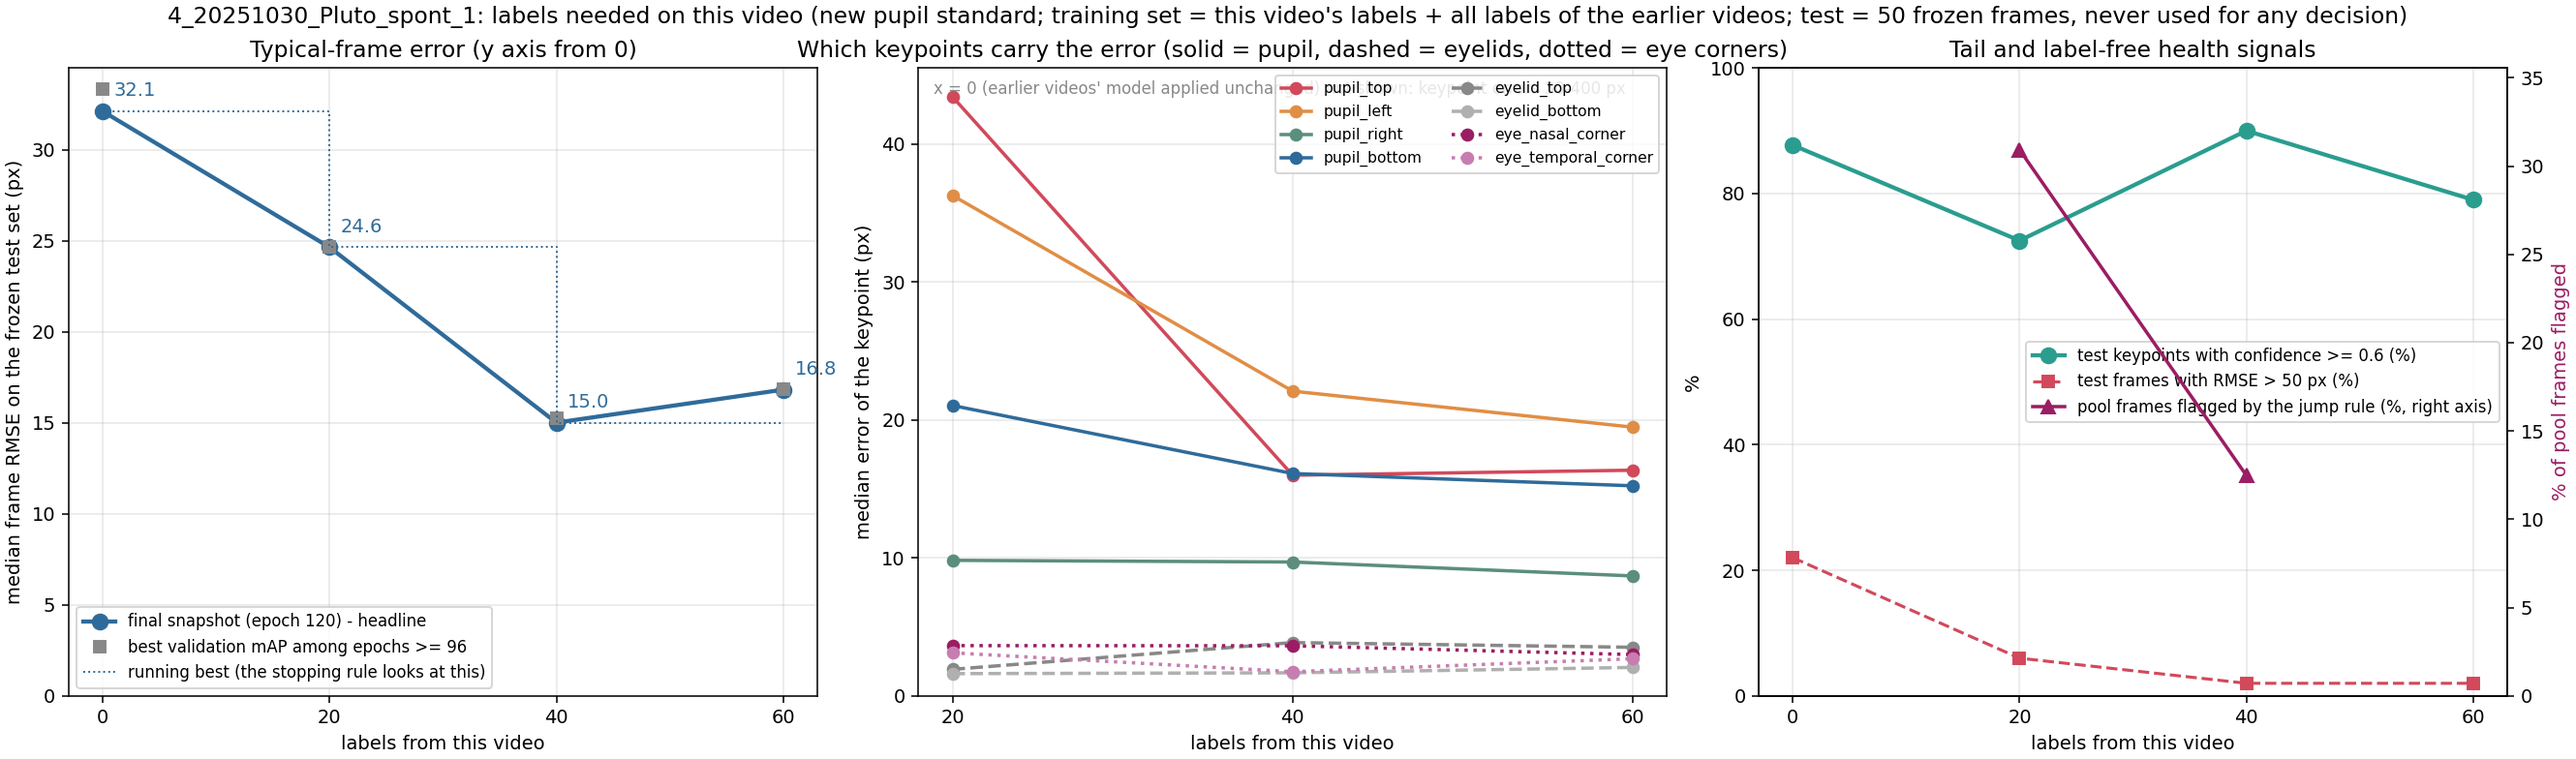
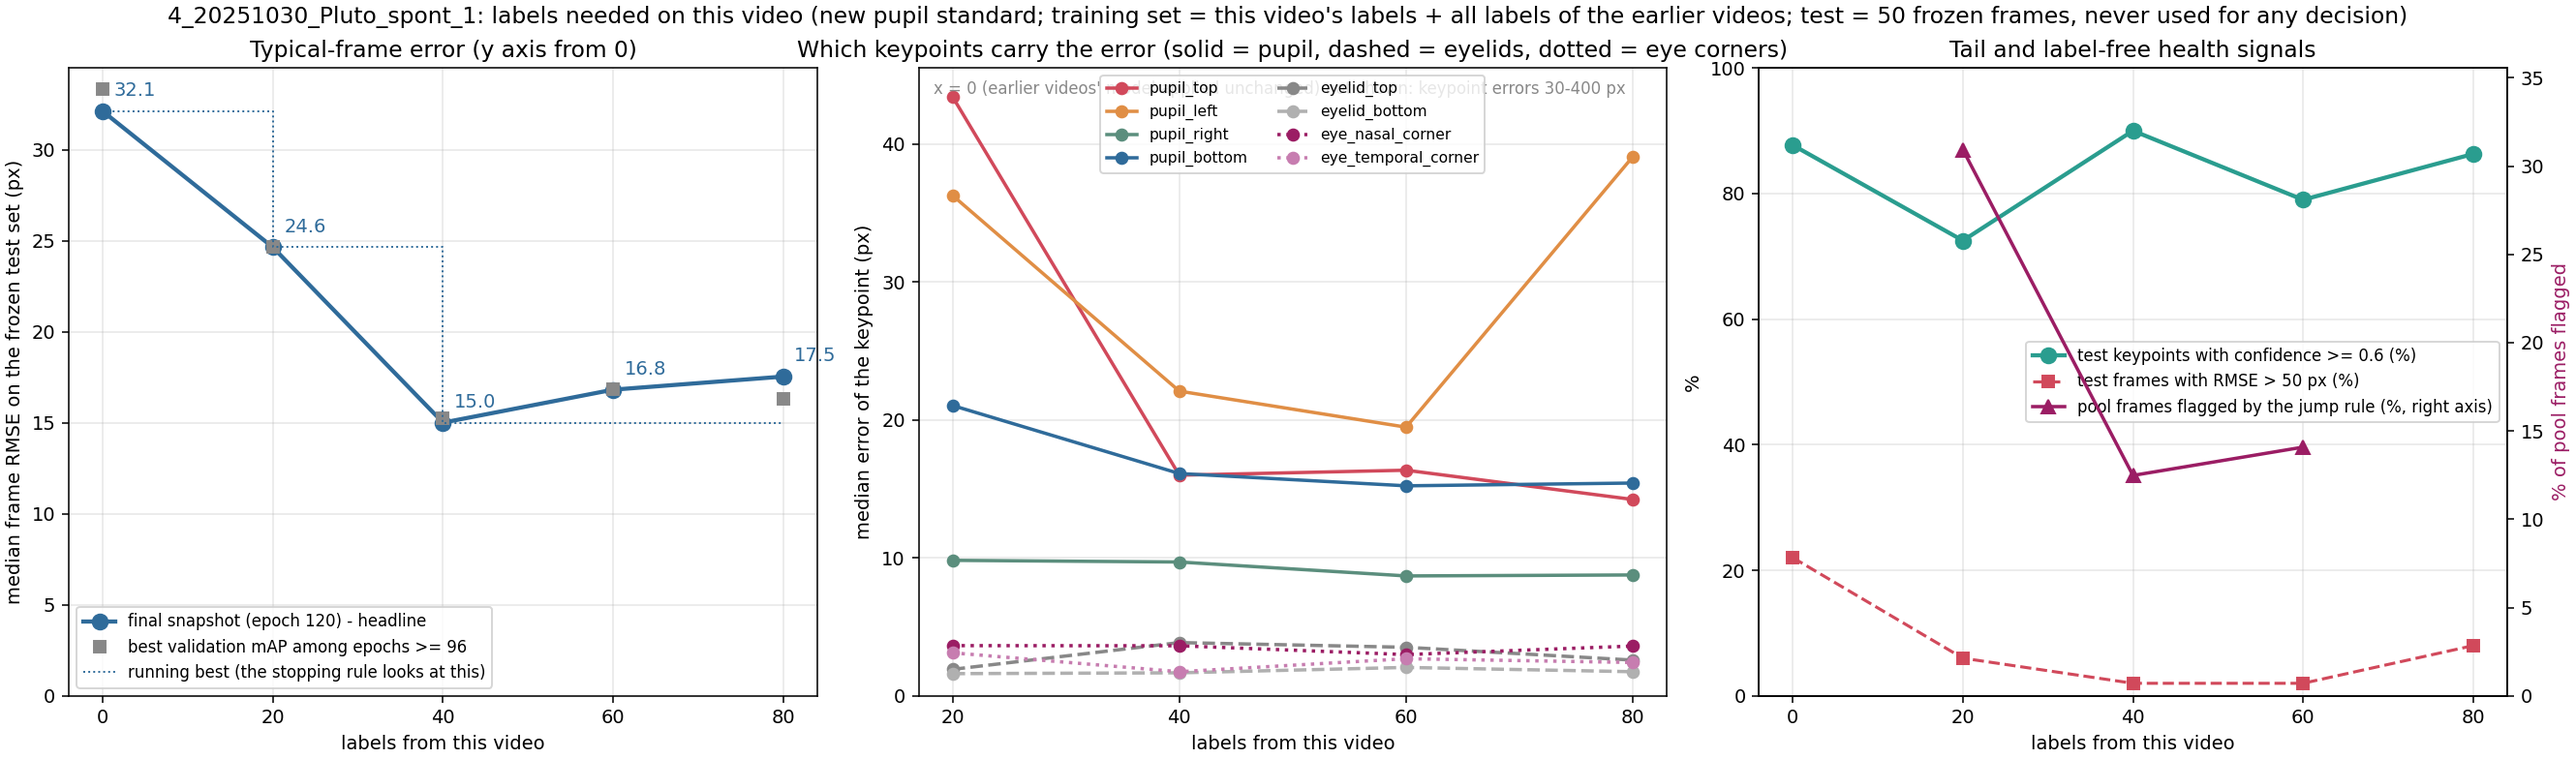
Video 4 run 2 (convention v2) step 4: 80 labels = 17.54 px; plateau rule fired, plateau at 40 labels (15.01 px)

diff --git a/README.md b/README.md
@@ -8,14 +8,14 @@ how many human labels are needed, and how few frames must a person correct, befo
 Zhiheng Li (University of Minnesota), with Kaiwen Sheng (Stanford). Raw videos, frames, labels, model weights and
 per-frame predictions stay local; git carries code, documentation and audited aggregate results.
 
-## Status (last updated 2026-09-27 12:00 CDT)
+## Status (last updated 2026-09-27 14:10 CDT)
 
 | what | state |
 |---|---|
 | Label standard | era 3 (since 2026-09-20): the pupil is an **ellipse**; its four points are the ellipse endpoints, including the part hidden under the lid |
 | Recipe (frozen) | ResNet-50, batch 2, trained from scratch, 120 epochs, LR drops at 96 / 114; headline = final snapshot, median per-frame RMSE over the 8 keypoints on 50 frozen test frames |
 | Videos done | video 0 (mouse A, 5 min), videos 1-3 (mouse B "Pluto", 2025-10-31) |
-| In progress | **video 4 run 2** (Pluto, 2025-10-30): restarted under labeling convention v2 (double contour -> left edge); 0 labels 32.11 px, 20 labels 24.64 px, 40 labels 15.01 px, 60 labels 16.82 px (first non-improving step); the v2 labels mark a much smaller pupil (width 92 vs 215 px), being checked with Kaiwen. Run 1 (v1): plateau 140 labels, 14.74 px (archived, tag `v0.8.0-video4-convention1`) |
+| Finished | **video 4 run 2** (Pluto, 2025-10-30, convention v2): plateau at **40 labels, 15.01 px** (0/20/40/60/80 = 32.11/24.64/15.01/16.82/17.54 px). Run 1 (v1): 140 labels, 14.74 px (archived, tag `v0.8.0-video4-convention1`). Open: the v2 labels mark a much smaller pupil (width 92 vs 215 px) |
 | Paused | video 5 (restarts after video 4 run 2; its first attempt under v1 is archived) |
 | Blink / area analysis | per-video time series in `<video>/results/blink_area_analysis/`; across videos (`new_pupil_top_video_scaling/results/blink_area_consistency.png`): 4-point area better on 7 of 8 test sets; lowest pupil confidence < ~0.2 separates all 16 human closed-eye frames (the production 0.6 cut flags ~half of open frames); area correlates with eye opening in every video |
 | Test-set only | videos 5-8 (2025-10-29 / 28 / 27 / 24): frozen test sets scored by every model so far; videos 9 (10-23) and 10 (10-22): test sets being labeled |
@@ -30,7 +30,7 @@ Labels needed per video (plateau = two consecutive 20-label steps that improve t
 | 1 | Pluto, 2025-10-31 | 100 | 208 / 10.37 / 12.17 / 11.35 px | 20 labels, 10.4 px |
 | 2 | Pluto, 2025-10-31 | 200 | 9.99 / 7.73 / 7.57 / 7.83 px | 20 labels, 7.7 px |
 | 3 | Pluto, 2025-10-31 | 260 | 4.43 / 3.40 / 3.87 / 3.63 px | 20 labels, 3.4 px |
-| 4 | Pluto, 2025-10-30 (poor quality) | 320 | run 1 (convention v1, archived): 22.80 / 21.75 / 18.19 / 17.16 / 16.40 / 15.38 px ... 140: 14.74 | run 1: 140 labels; run 2 (v2) in progress |
+| 4 | Pluto, 2025-10-30 (poor quality) | 320 | run 2 (v2): 32.11 / 24.64 / 15.01 / 16.82 / 17.54 px | 40 labels, 15.0 px (run 1 v1: 140 labels) |
 
 What the numbers say:
 

diff --git a/new_pupil_top_video_scaling/results/README.md b/new_pupil_top_video_scaling/results/README.md
@@ -16,7 +16,7 @@ snapshot with the best validation mAP after the first learning-rate drop (epochs
 | 1 `1_20251031_Pluto_spont_1` | mouse B, 19.9 min | 100 (all of video 0) | 208.2 / 10.37 / 12.17 / 11.35 / 11.59 / 10.94 | **20 labels** | 10.37 px |
 | 2 `2_20251031_pluton2` | mouse B, 19.9 min (2nd recording) | 200 (videos 0 + 1) | 9.99 / 7.73 / 7.57 / 7.83 / 7.56 / – | **20 labels** (rule fired at 60; user stopped selecting at 60 labels on 2026-09-23; batch04 was already labeled and was trained + scored, no further selection) | 7.73 px |
 | 3 `3_20251031_pluto3` | mouse B, 19.9 min (3rd recording) | 260 (videos 0 + 1 + 60 of video 2) | 4.43 / 3.40 / 3.87 / 3.63 / – / – | **20 labels** (rule fired at 60) | 3.40 px |
-| 4 `4_20251030_Pluto_spont_1` | mouse B, 19.9 min, 2025-10-30 (poor image quality) | 320 (videos 0-3 as for video 3) | 22.80 / 21.75 / 18.19 / 17.16 / 16.40 / 15.38 / 17.10 (120) / 14.74 (140) / 14.89 (160) / 15.69 (180) | **140 labels** (rule fired at 180) | – |
+| 4 `4_20251030_Pluto_spont_1` | mouse B, 19.9 min, 2025-10-30 (poor image quality) | 320 (videos 0-3) | run 2 (convention v2): 32.11 / 24.64 / 15.01 / 16.82 / 17.54 | **40 labels** (run 2; run 1 under v1: 140 labels) | 15.01 px |
 
 Notes
 - With 50 test frames the median moves by about 1 px between neighbouring steps from sampling alone, so the

diff --git a/new_pupil_top_video_scaling/4_20251030_Pluto_spont_1/results/README.md b/new_pupil_top_video_scaling/4_20251030_Pluto_spont_1/results/README.md
@@ -18,3 +18,8 @@ run 1) + this video's labels.
 | 20 | 24.64 px | 45.2 | 6% | 72% | 17672 |
 | 40 | 15.01 px | 24.1 | 2% | 90% | 7134 |
 | 60 | 16.82 px | 25.1 | 2% | 79% | 8050 |
+| 80 | 17.54 px | 44.7 | 8% | 86% | – |
+
+**Run 2 plateau (2026-09-27):** neither 60 labels (16.82 px) nor 80 labels (17.54 px) improved the running best of
+15.01 px by more than 3%, so the plateau point of run 2 (convention v2) is **40 labels, 15.01 px**. Run 1 (v1) needed
+140 labels for 14.74 px on a different (larger) pupil definition, so the two numbers are not directly comparable.
